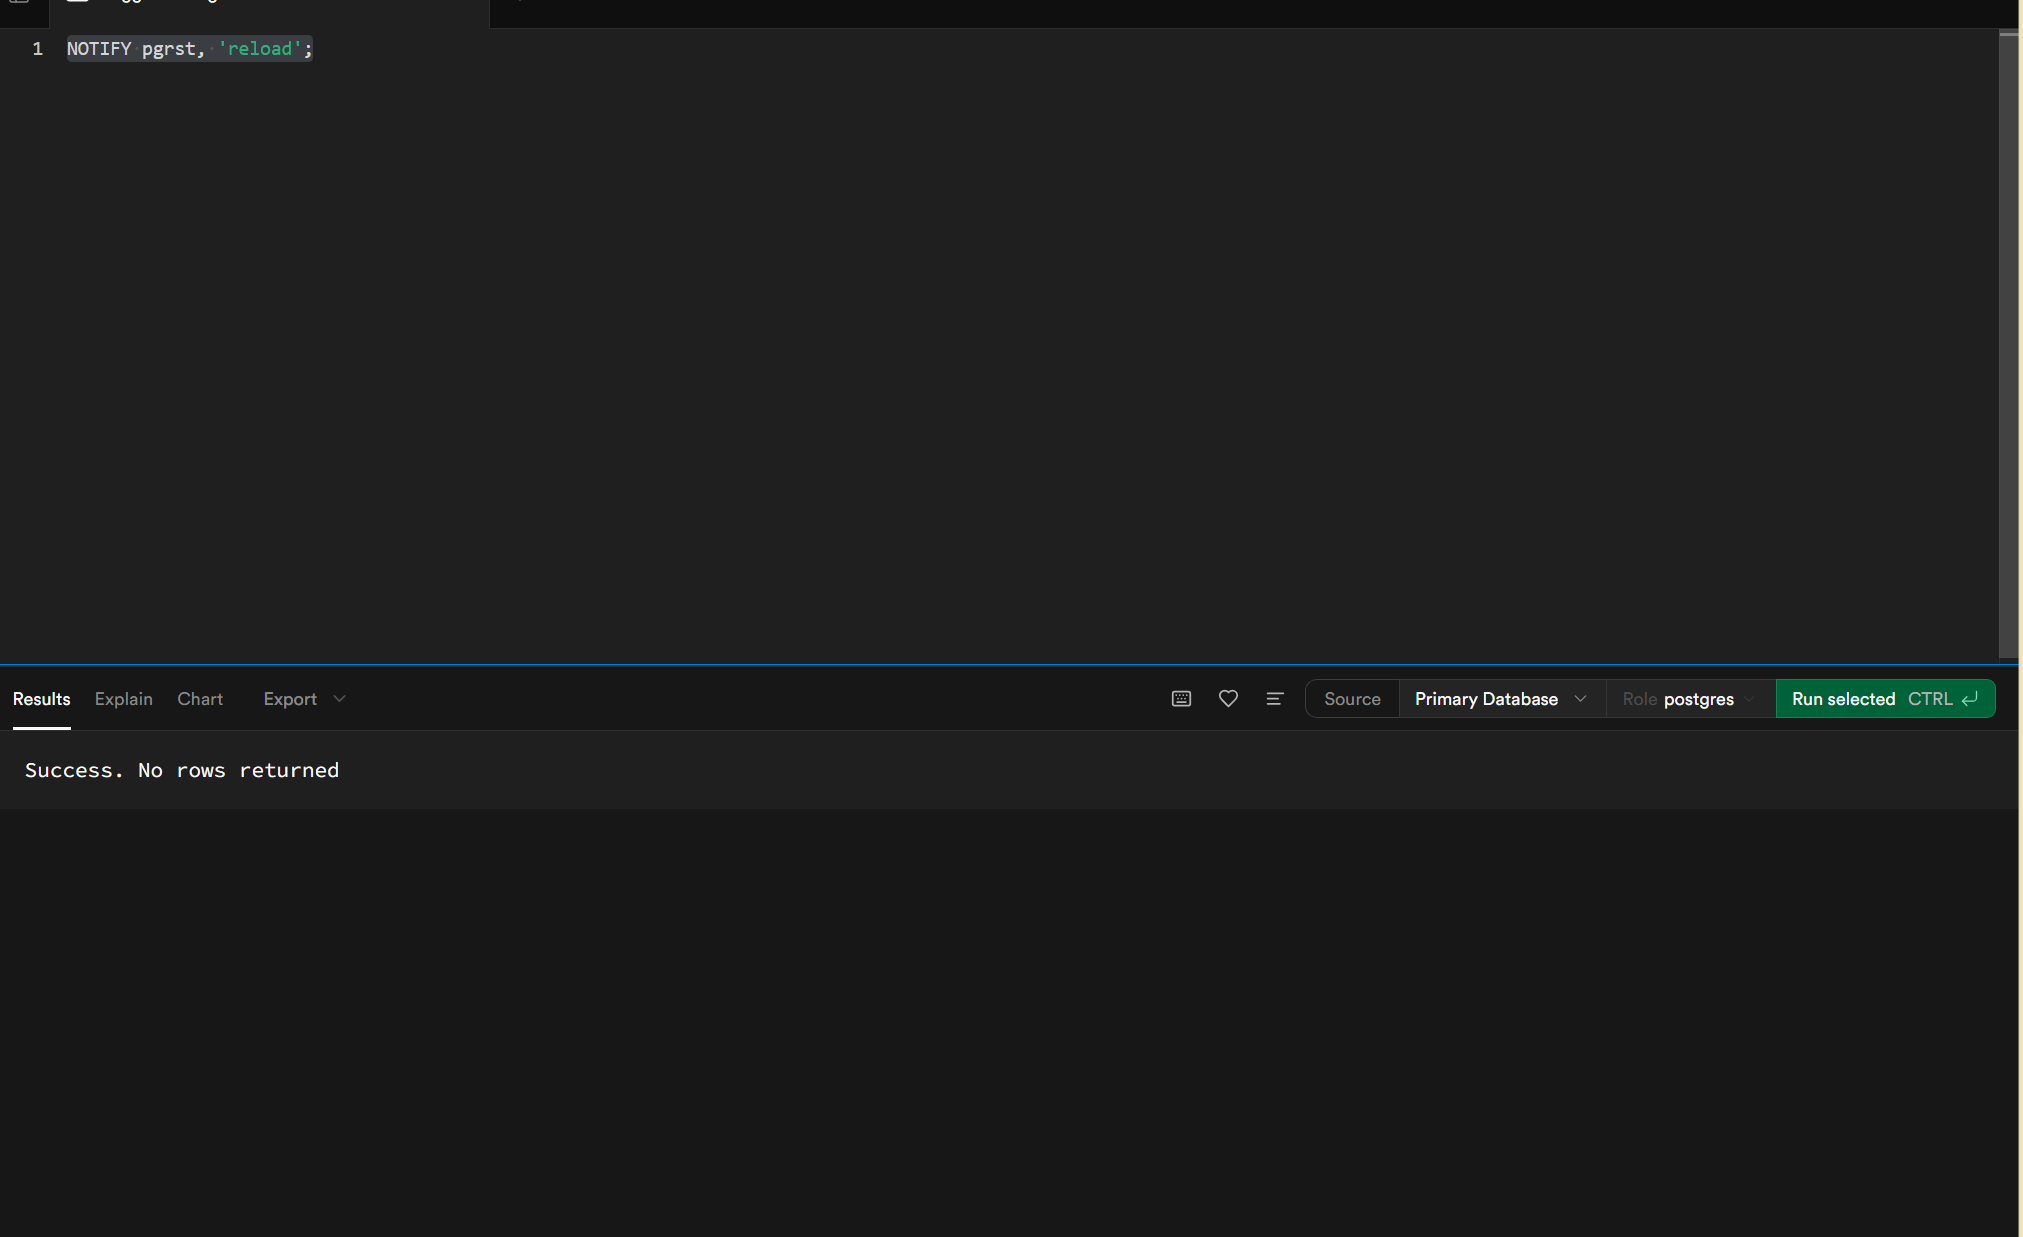
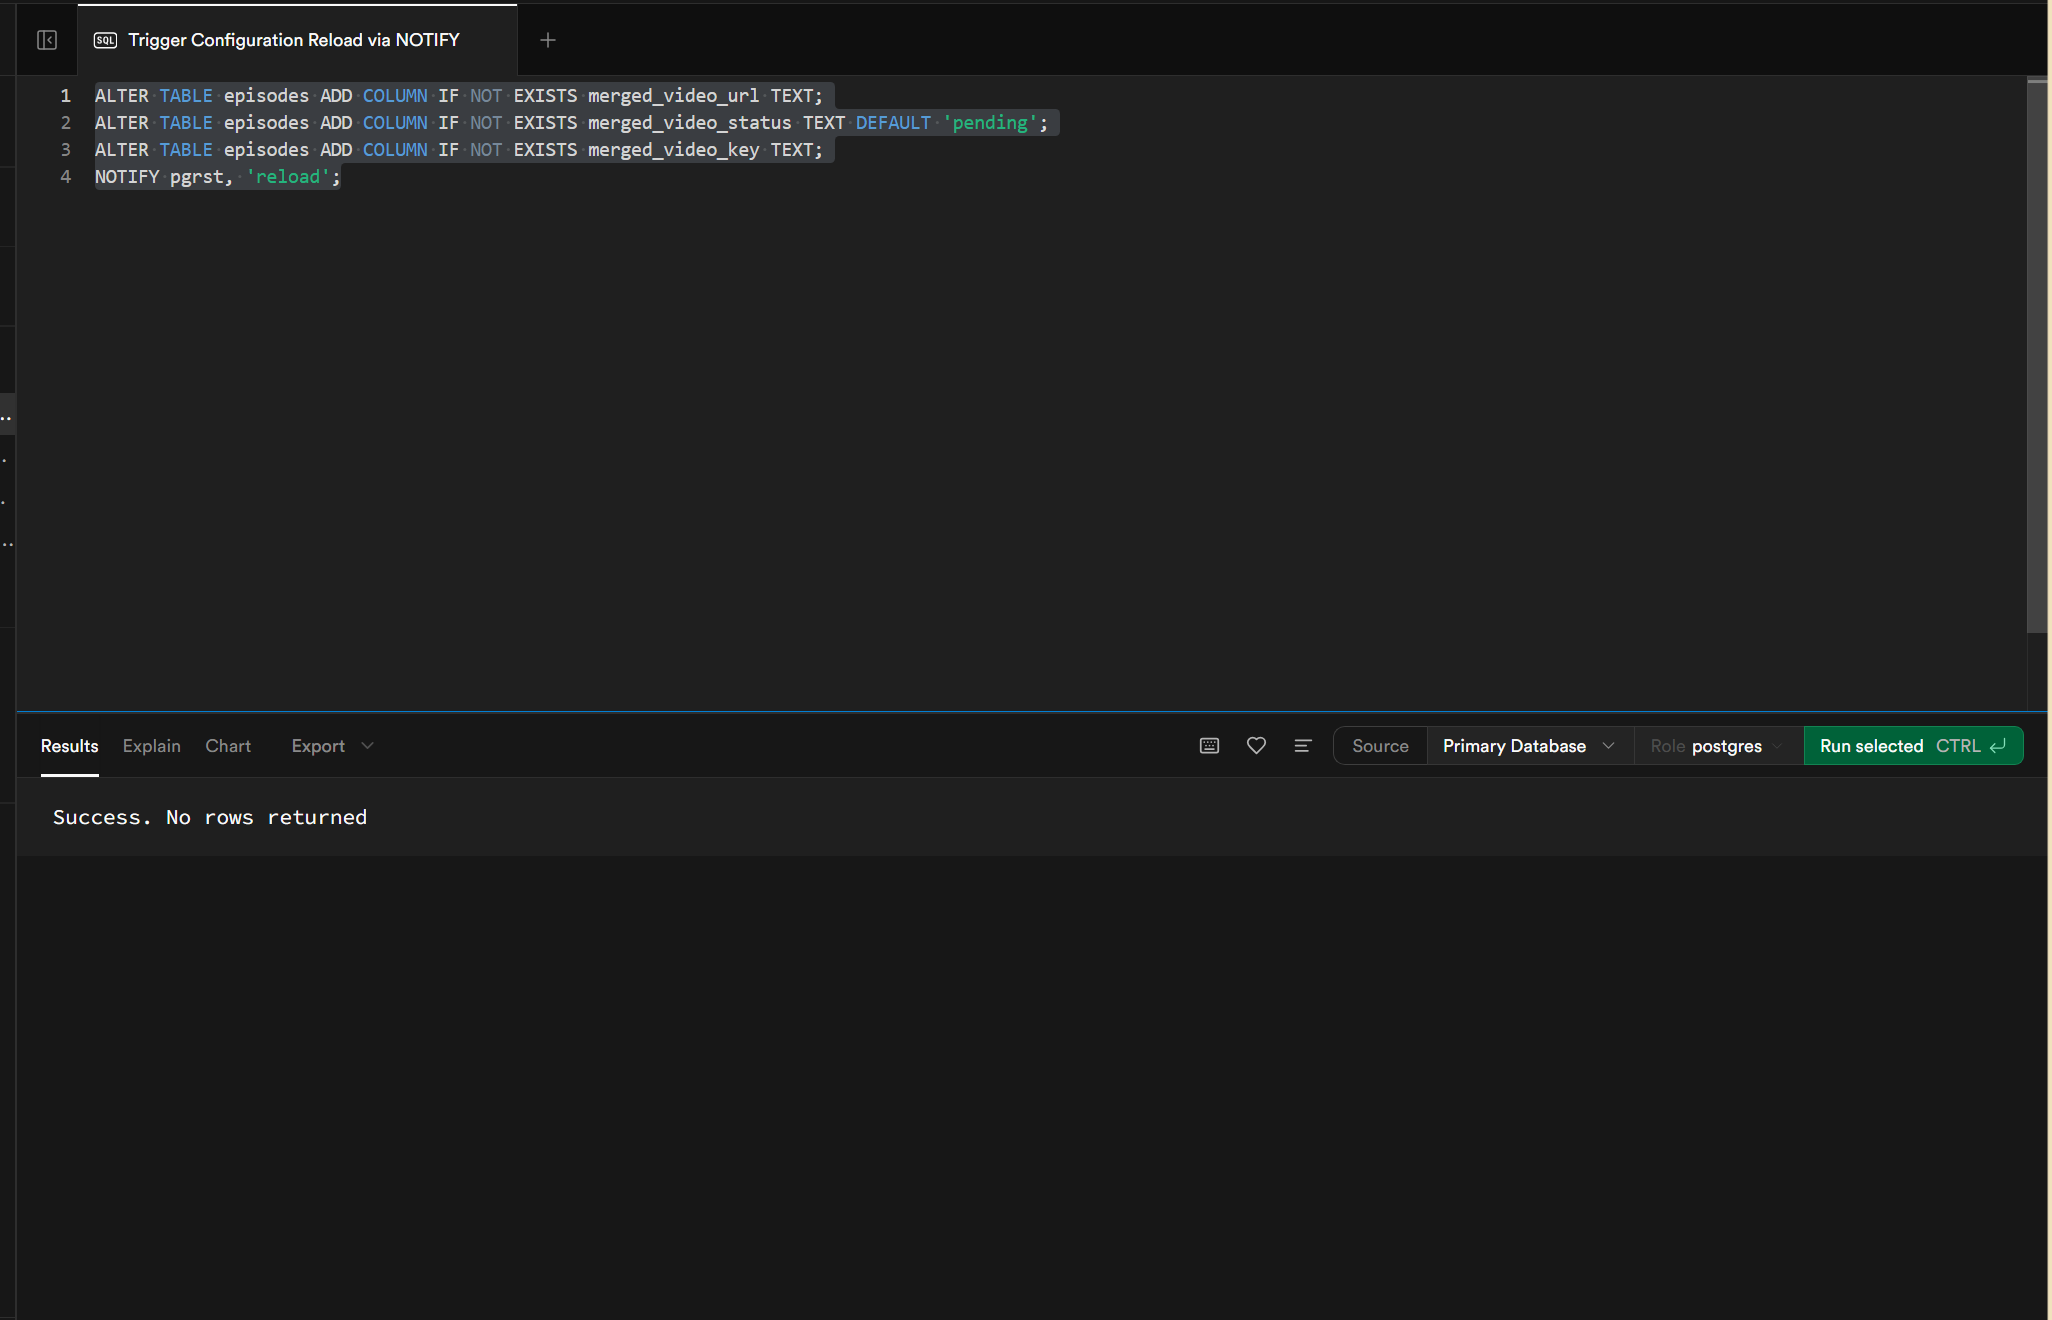
fix: 修复剧集更新 API schema cache 问题

diff --git a/src/app/api/episodes/[id]/route.ts b/src/app/api/episodes/[id]/route.ts
@@ -73,13 +73,15 @@ export async function PUT(
   const client = getSupabaseClient()
 
   // 手动解析更新数据
-  // 只更新现有列，避免 schema cache 问题
   const updateData: Record<string, any> = {}
 
   if (body.seasonNumber !== undefined) updateData.season_number = body.seasonNumber
   if (body.episodeNumber !== undefined) updateData.episode_number = body.episodeNumber
   if (body.title !== undefined) updateData.title = body.title
   if (body.description !== undefined) updateData.description = body.description
+  if (body.mergedVideoUrl !== undefined) updateData.merged_video_url = body.mergedVideoUrl
+  if (body.mergedVideoStatus !== undefined) updateData.merged_video_status = body.mergedVideoStatus
+  if (body.mergedVideoKey !== undefined) updateData.merged_video_key = body.mergedVideoKey
 
   if (Object.keys(updateData).length === 0) {
     return NextResponse.json({ error: "No valid fields to update" }, { status: 400 })

diff --git a/src/components/video-merge-panel.tsx b/src/components/video-merge-panel.tsx
@@ -223,7 +223,8 @@ export function VideoMergePanel({ projectId, scenes, onVideoAddedToEpisode }: Vi
         method: 'PUT',
         headers: { 'Content-Type': 'application/json' },
         body: JSON.stringify({
-          description: `合并视频: ${result.url}`
+          mergedVideoUrl: result.url,
+          mergedVideoStatus: 'completed'
         })
       })
 
